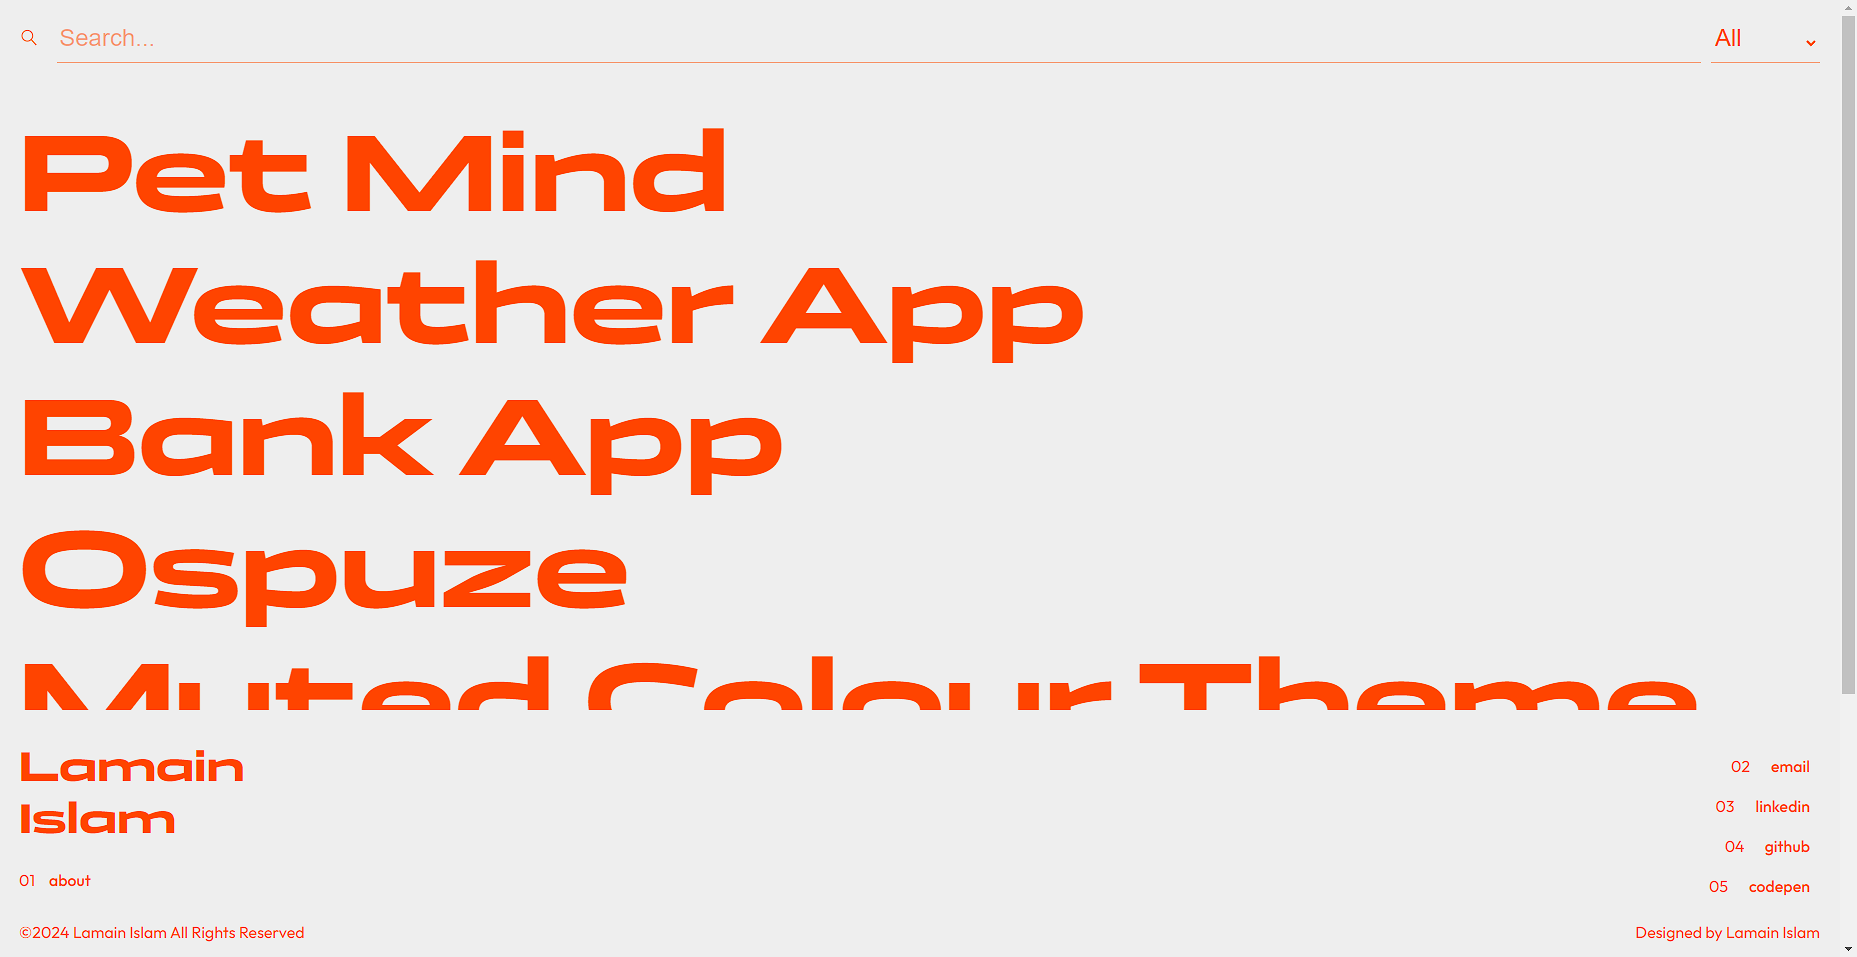
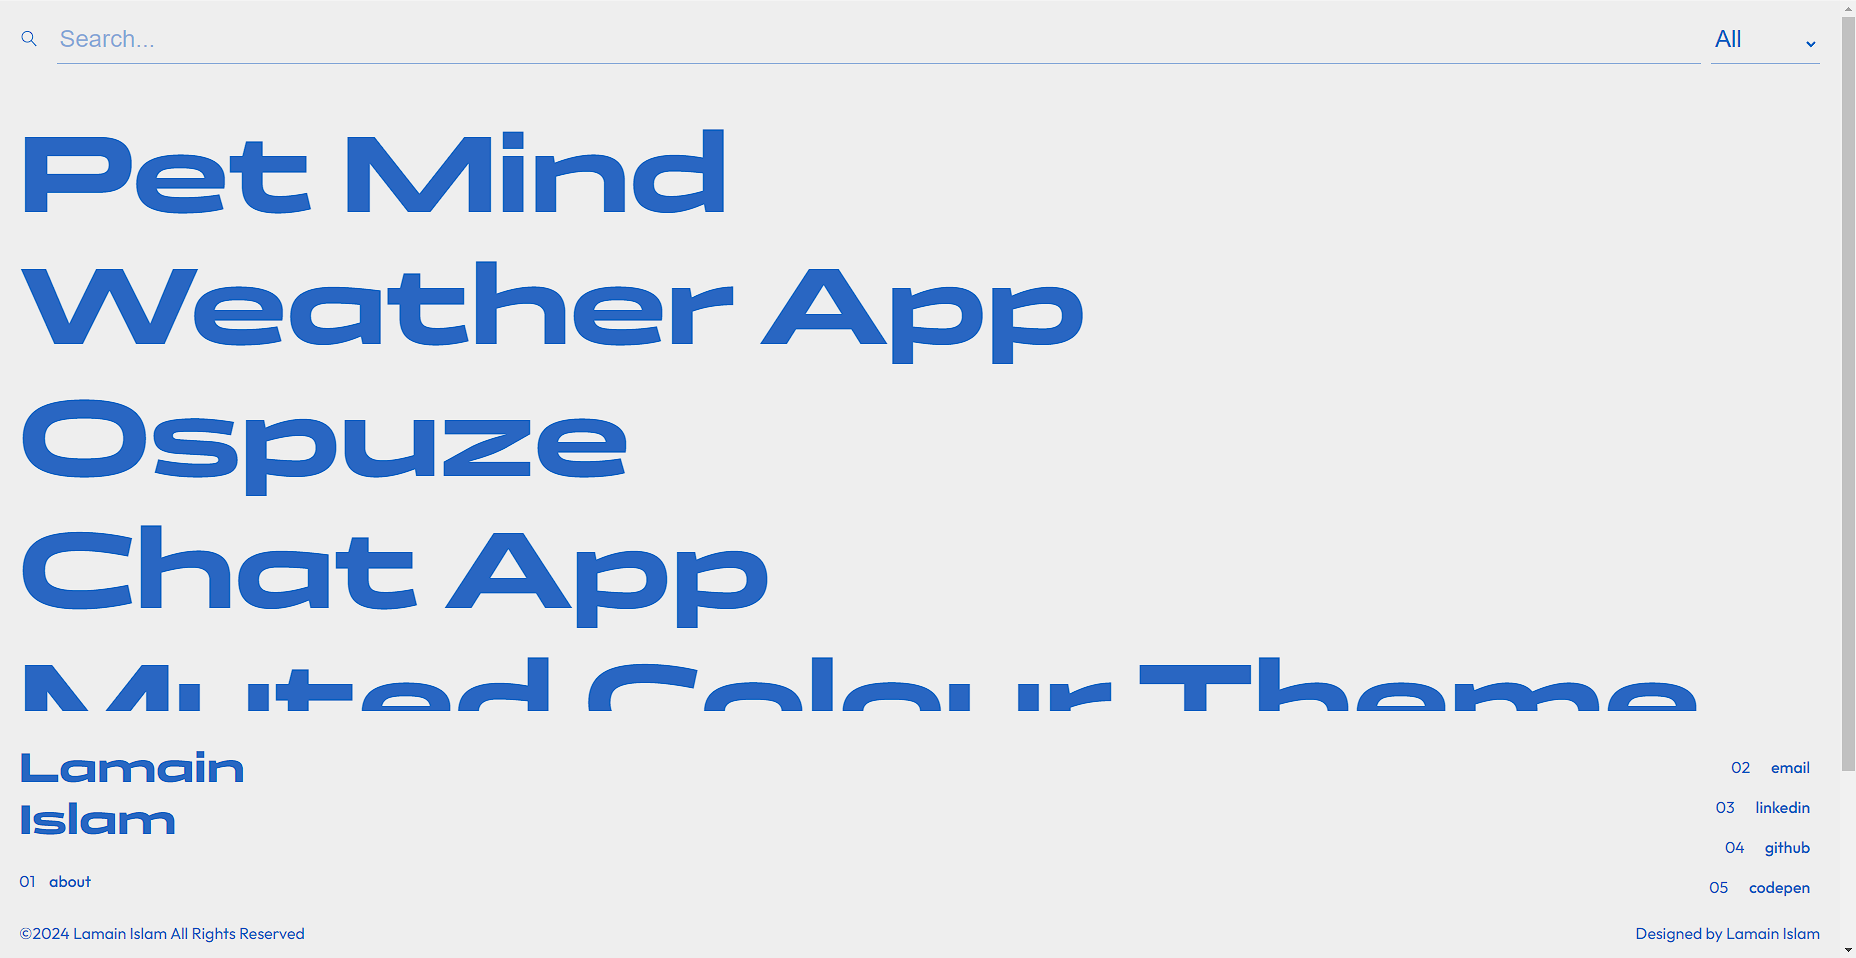
updated color-1 and using #202020 in detail.html

diff --git a/styles.css b/styles.css
@@ -1,8 +1,14 @@
 :root {
-  --color-1: #ff4400;
-  --color-2: #ff44007a;
+  --color-1: #2966c2;
+  --color-2: #2966c27a;
   --color-3: #eeeeee;
-  --color-4: #ff4400b3;
+  --color-4: #2966c2b3;
+
+  /* 
+  #c22929
+  #2966c2
+  #ff4400 
+  */
 }
 
 body {

diff --git a/detail.css b/detail.css
@@ -4,6 +4,9 @@ body{
   font-family: 'Outfit', sans-serif;
   background-color: var(--color-3);
 }
+*{
+  color: #202020;
+}
 h1{
   font-family: 'Panchang', sans-serif;
   font-weight: 700;
